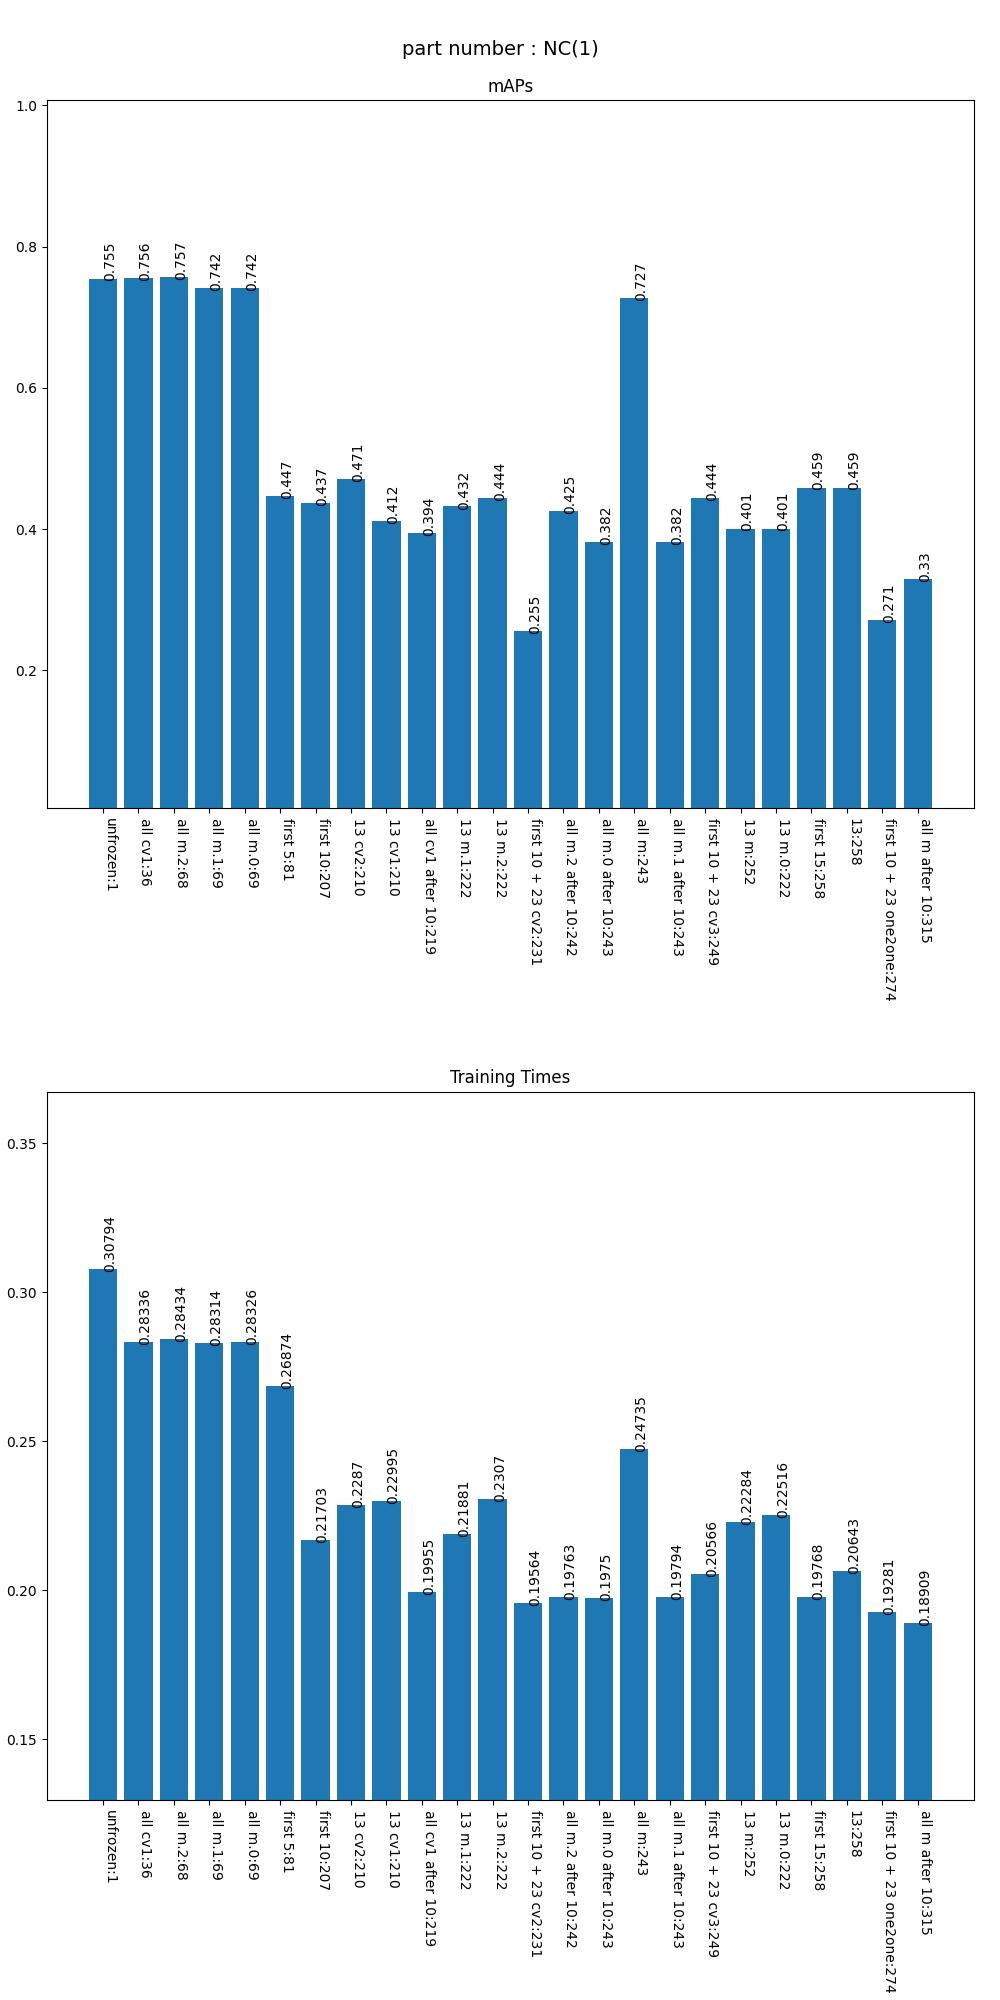
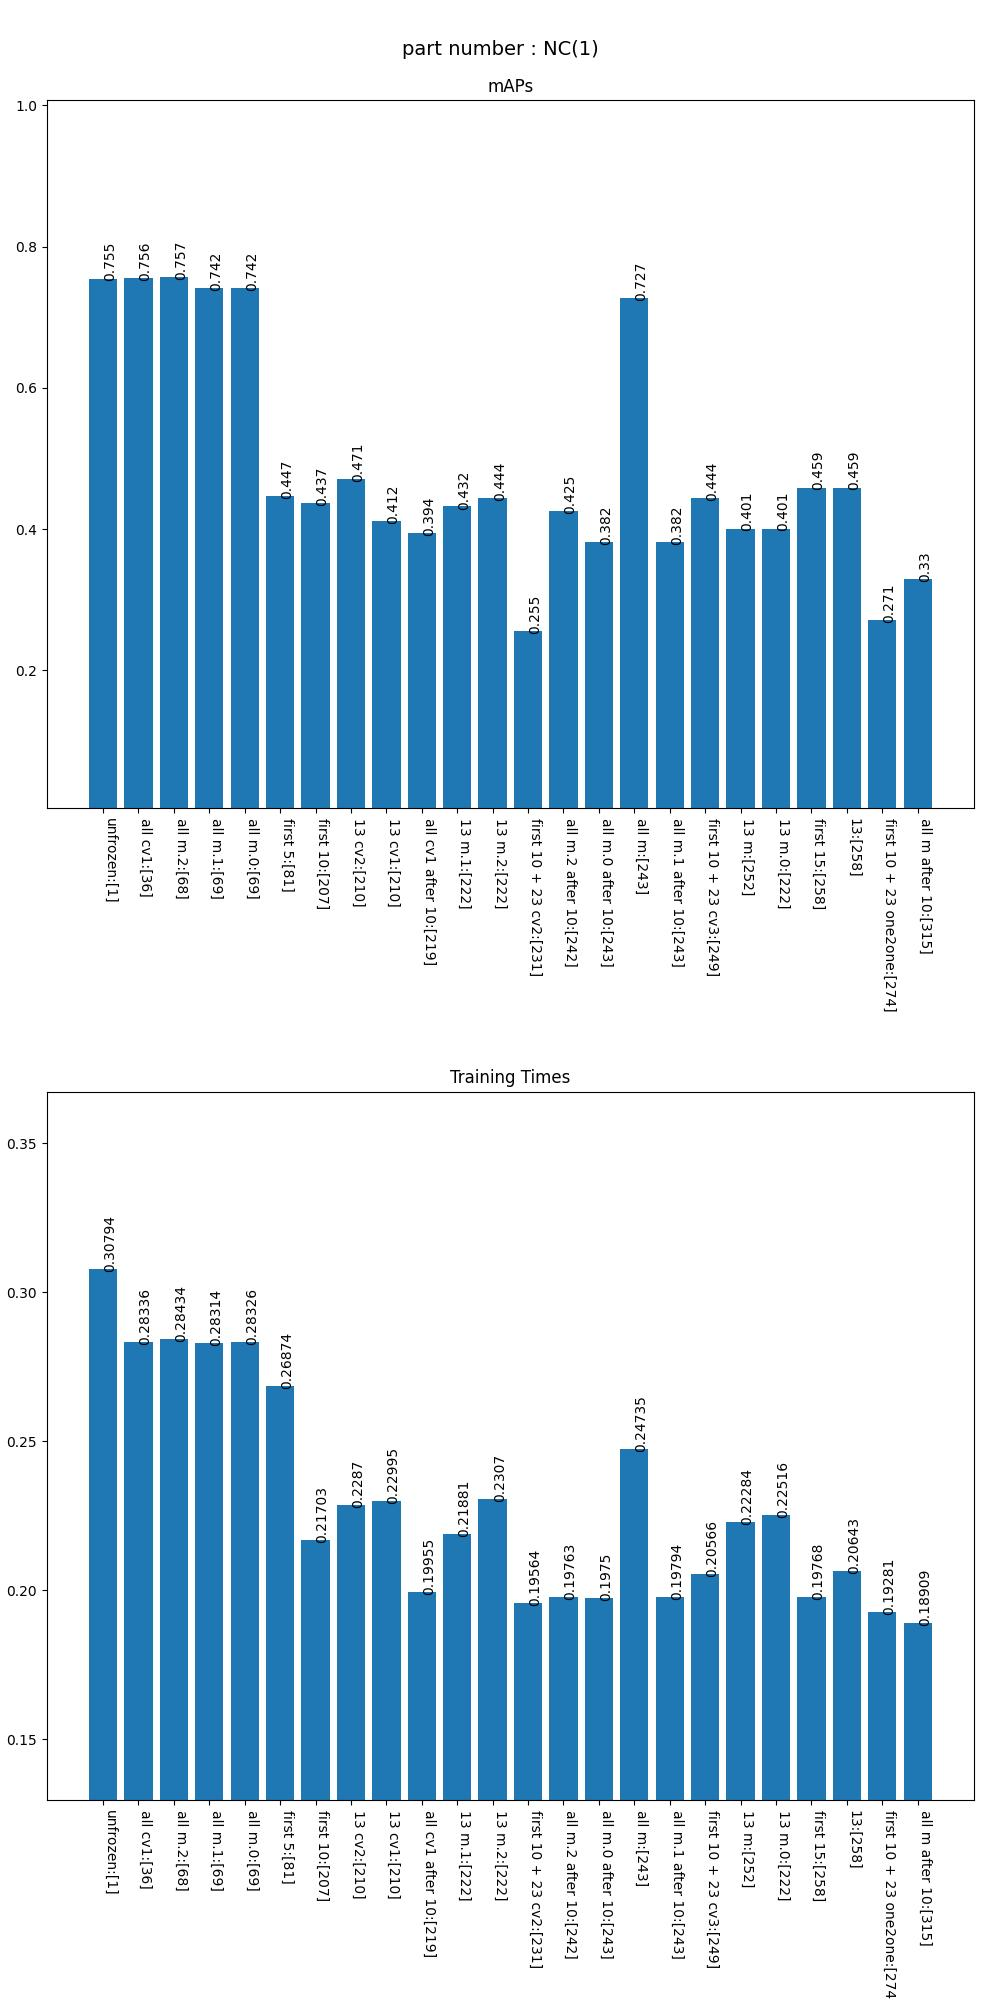
cleaner labels

diff --git a/saveData.py b/saveData.py
@@ -42,7 +42,7 @@ def plotDataBar(mAPs, trainingTimes, name="",file=""):
 
     labels = []
     for i in mAPs.keys():
-        labels.append(f"{i}:{len(freezeDataLookup.lookupData(i))}")
+        labels.append(f"{i}:[{len(freezeDataLookup.lookupData(i))}]")
 
     mAPVals = list(mAPs.values())
     ax1.bar(range(len(mAPs)),mAPVals, tick_label=labels)
